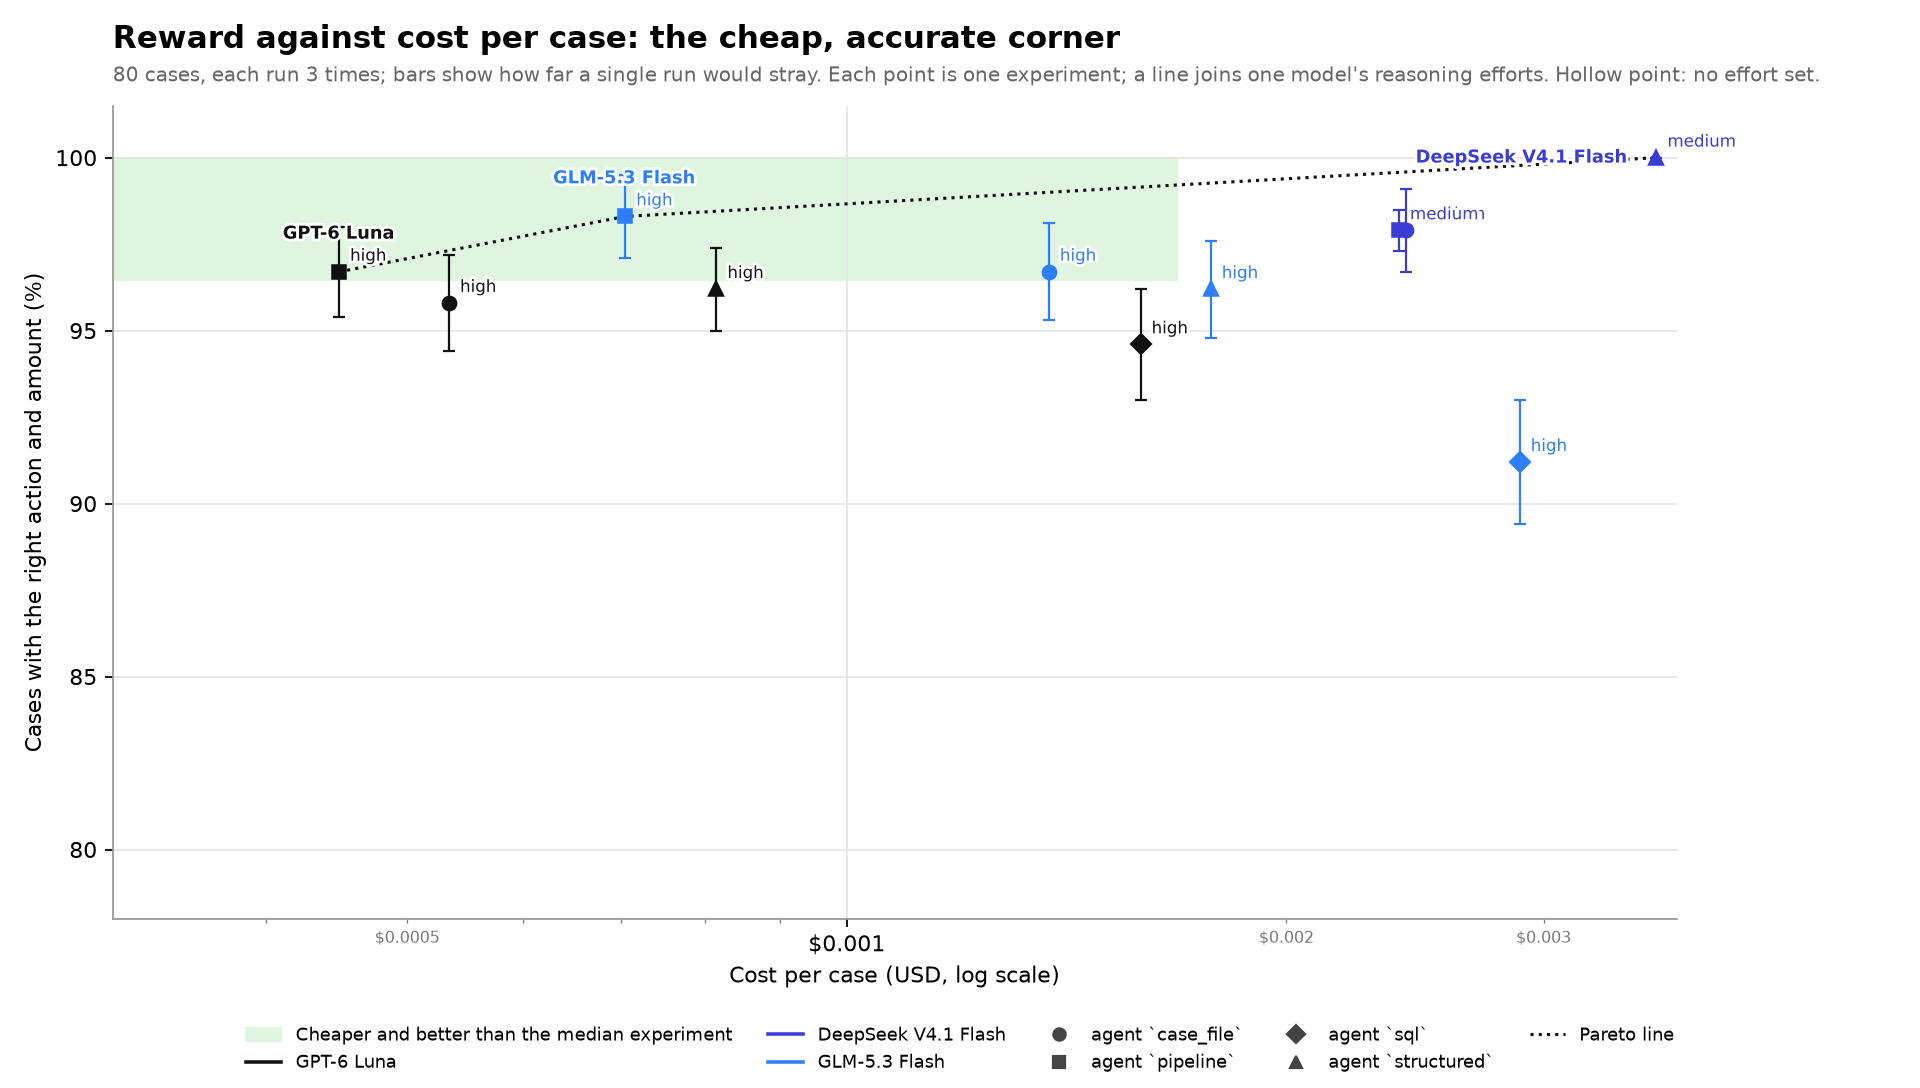
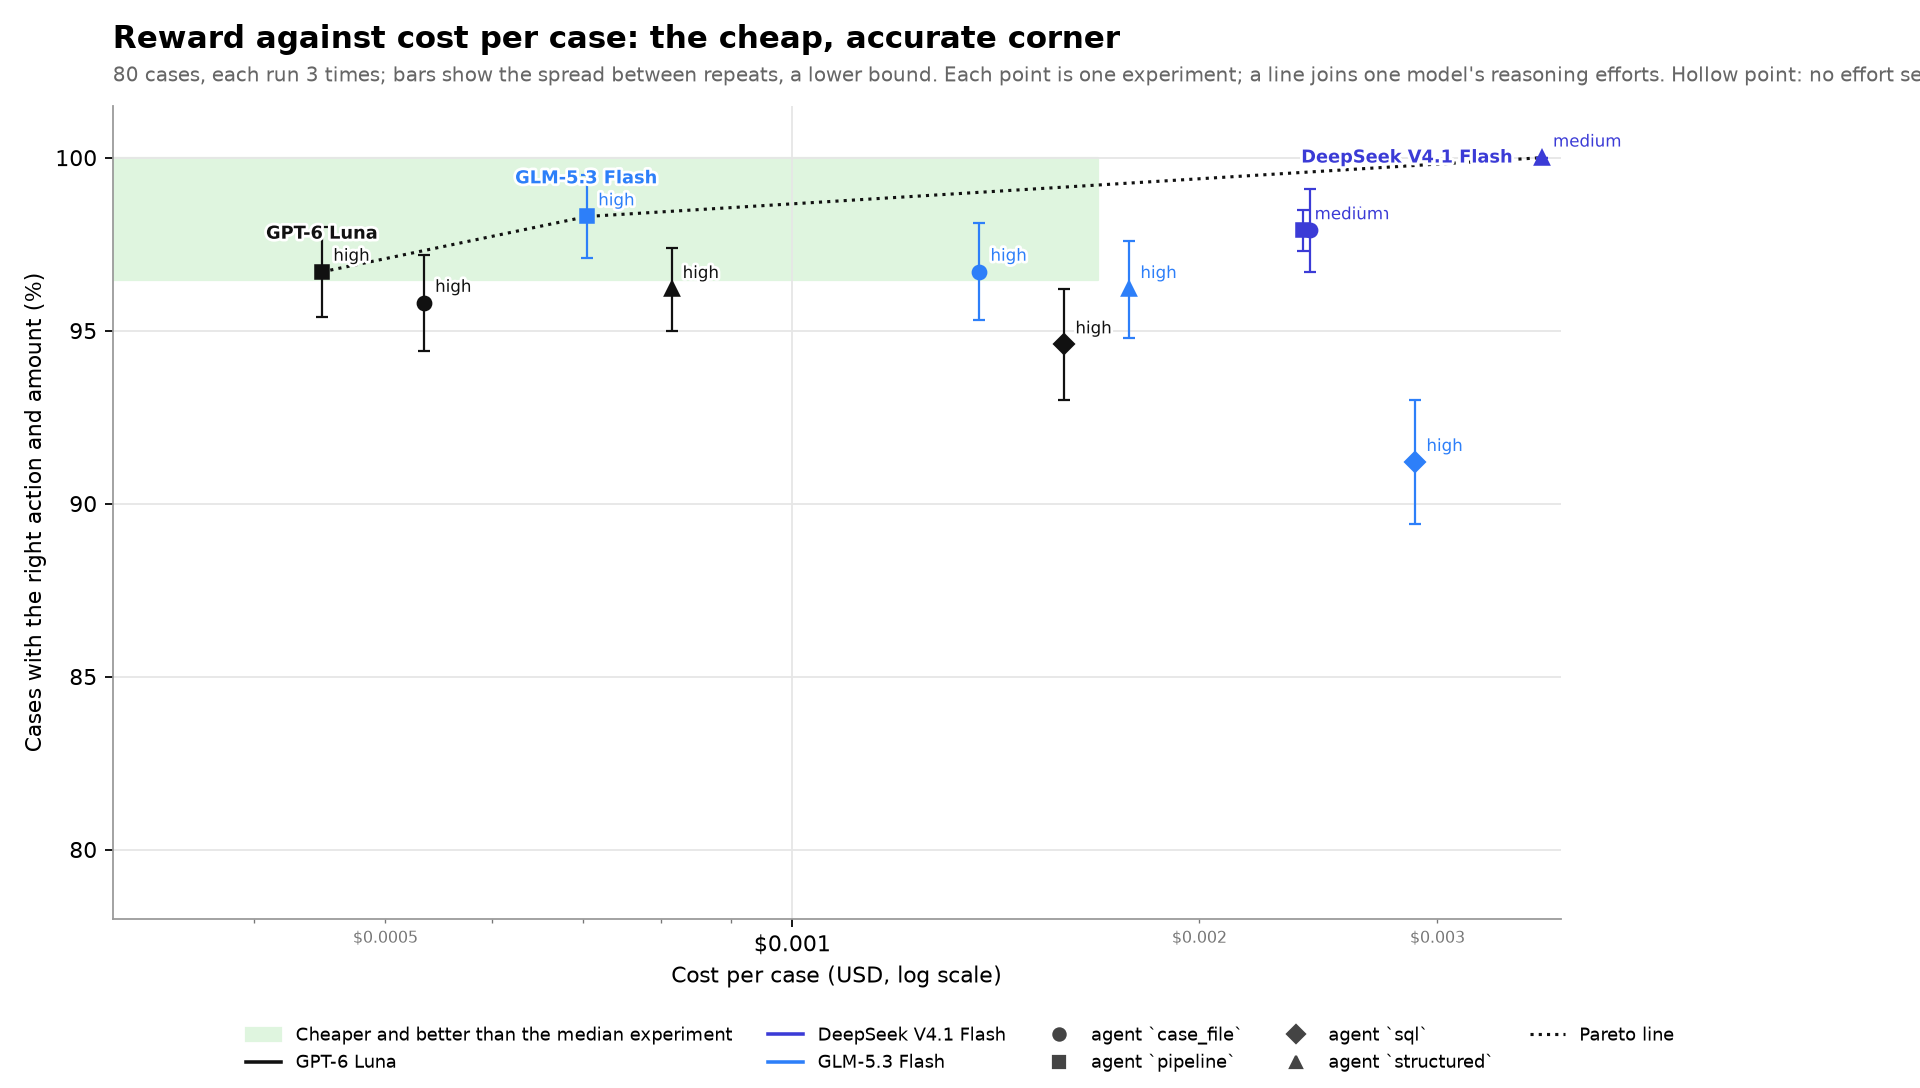
Say what the spread between repeats does and does not show
The ± beside a score counts only cases whose repeats disagree, so a case that
was right three times in three adds nothing to it. The page now gives the count
of right trials, and the page, the table's description and the chart call the
figure a lower bound.

Claude-Session: https://claude.ai/code/session_01W7mXkSaAox7XjV5T6Ve8mH

diff --git a/evals/explore_page.html b/evals/explore_page.html
@@ -102,7 +102,7 @@ blockquote { margin: 0; padding-left: 12px; border-left: 3px solid var(--line); 
   <section>
     <h2>Experiments</h2>
     <div class="scroll"><table id="summary"></table></div>
-    <p class="legend">Right is the share of trials with the correct action and amount; the ± is how far a single pass over the 80 cases would stray from it by chance. Cases are counted by how many of their repeats were right. Model seconds is the median time that a case spent in model calls, from the LangSmith traces. Agent seconds is the median time of the full agent run for a case. It includes the start of the agent process and the tool calls, and it changes with the load on the machine. Tokens are averages per case, with the cached part of the input in brackets. Cost is tokens at the provider's list price. Tool calls include the two a fixed graph makes in code. No proposal counts trials that ended with nothing submitted. Retried counts trials where a model call had to be sent again. Started is local time.</p>
+    <p class="legend">Right is the share of trials with the correct action and amount, with the number of right trials. The ± is the spread between the repeats. It counts only the cases that had different results in the repeats, so the true spread is larger. Three repeats cannot show a case that fails 1 time in 5. Do not rely on a difference of 1 or 2 points between two experiments. Cases are counted by how many of their repeats were right. Model seconds is the median time that a case spent in model calls, from the LangSmith traces. Agent seconds is the median time of the full agent run for a case. It includes the start of the agent process and the tool calls, and it changes with the load on the machine. Tokens are averages per case, with the cached part of the input in brackets. Cost is tokens at the provider's list price. Tool calls include the two a fixed graph makes in code. No proposal counts trials that ended with nothing submitted. Retried counts trials where a model call had to be sent again. Started is local time.</p>
   </section>
 
   <section>
@@ -154,10 +154,11 @@ for (const note of D.notes) $("notes").append(el("li", { text: note }));
 $("notes").hidden = !D.notes.length;
 
 // ---- experiments table
+const rightTrials = (e) => D.trials.filter((t) => t.g === e.graph && t.m === e.model && t.right).length;
 const columns = [
   ["Agent", (e) => e.graph, (e) => el("td", { class: "code", text: e.graph })],
   ["Model", (e) => e.model_name, (e) => el("td", {}, e.model_name, el("span", { class: "sub", text: " " + e.effort }))],
-  ["Right", (e) => e.reward, (e) => el("td", { class: "num" }, el("span", { class: "bar" }, el("i", { style: `width:${e.reward}%` })), `${e.reward.toFixed(1)}%`, el("span", { class: "sub", text: e.reward_sd === null ? "" : ` ±${e.reward_sd.toFixed(1)}` })), "num"],
+  ["Right", (e) => e.reward, (e) => el("td", { class: "num" }, el("span", { class: "bar" }, el("i", { style: `width:${e.reward}%` })), `${e.reward.toFixed(1)}%`, el("span", { class: "sub", text: ` ${rightTrials(e)} of ${e.trials}` + (e.reward_sd === null ? "" : ` ±${e.reward_sd.toFixed(1)}`) })), "num"],
   [`Cases right ${D.repeats} of ${D.repeats} · some · none`, (e) => e.always ?? -1, (e) => el("td", { class: "num", text: e.always === null ? "" : `${e.always} · ${e.sometimes} · ${e.never}` }), "num"],
   ["Model seconds", (e) => e.model_seconds ?? 1e9, (e) => el("td", { class: "num", text: e.model_seconds === null || e.model_seconds === undefined ? "" : e.model_seconds.toFixed(1) }), "num"],
   ["Agent seconds", (e) => e.seconds ?? 1e9, (e) => el("td", { class: "num", text: e.seconds === null ? "" : e.seconds.toFixed(1) }), "num"],

diff --git a/evals/pareto.py b/evals/pareto.py
@@ -14,8 +14,9 @@ each job's name) and writes, to evals/results/<commit>/:
 
 An experiment is one agent graph, model and reasoning effort. Reward is the share of its trials where the action
 and the amount were both right. Where each case was run more than once (`run.py -k`), the reward is over all the
-trials, and results.csv also says how far a single run's score would stray from it (reward_sd) and how many cases
-were right every time, some of the time, and never. Cost per case is the experiment's tokens at the provider's
+trials, and results.csv also gives the spread between repeats (reward_sd) and how many cases were right every time,
+some of the time, and never. The spread counts only cases whose repeats disagree, so with a few repeats it is a lower
+bound: a case that fails one time in five still comes out right three times in three about half the time. Cost per case is the experiment's tokens at the provider's
 list price, divided by the number of trials. The charts show experiments that have every case, the same number of
 times.
 
@@ -173,7 +174,8 @@ def experiments(commit: str) -> list[dict]:
             "trials": len(trials), "repeats": min(times), "complete": len(by_case) == CASES and len(times) == 1,
             "reliable": model not in UNRELIABLE,
             "reward": share([t["right"] for t in trials]),
-            # One run of the 80 cases would land this many points from the reward, give or take, by chance alone.
+            # How far one pass over the cases strays from the reward, from the cases whose repeats disagree. A case
+            # that was right every time adds nothing, so this is a lower bound.
             "reward_sd": round(100 * sum(p * (1 - p) for p in rates) ** 0.5 / len(rates), 1) if repeated else "",
             "cases_always_right": sum(p == 1 for p in rates) if repeated else "",
             "cases_sometimes_right": sum(0 < p < 1 for p in rates) if repeated else "",
@@ -270,7 +272,7 @@ def pareto_chart(rows: list[dict], path: Path, top: bool = False) -> None:
     fig, ax = plt.subplots(figsize=(12, 6.8), dpi=160)
     style(ax, "Reward against cost per case" + (": the cheap, accurate corner" if top else ", by model and reasoning effort"),
           (f"Agent graph `{graphs[0]}`, " if len(graphs) == 1 else "") + f"{CASES} cases"
-          + (f", each run {min(repeats)} times; bars show how far a single run would stray" if repeats != {1} else "")
+          + (f", each run {min(repeats)} times; bars show the spread between repeats, a lower bound" if repeats != {1} else "")
           + ". Each point is one experiment; a line joins one model's reasoning efforts. Hollow point: no effort set.")
     ax.fill_between([left, middle_cost], middle_reward, 100, color="#dff5df", zorder=0,
                     label="Cheaper and better than the median experiment")
